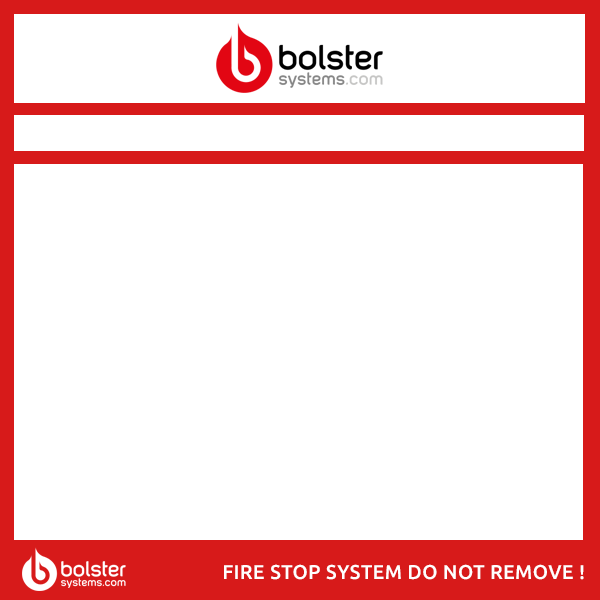
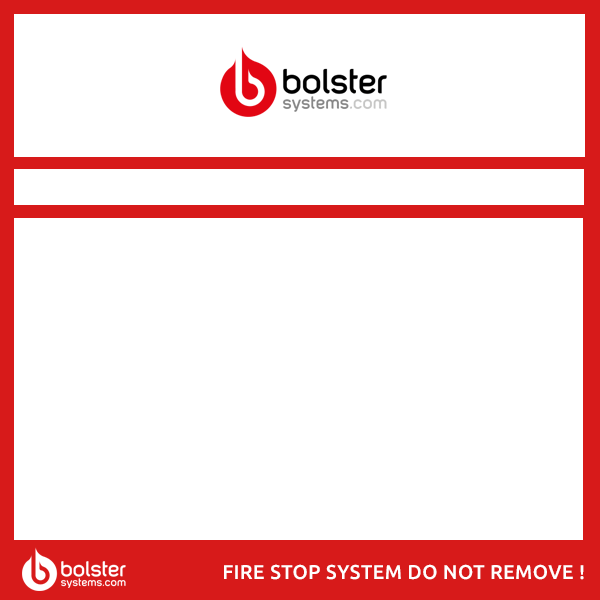
lots of label template changes

Changed region(s): [[0.03, 0.03, 0.99, 0.21], [0.03, 0.24, 0.99, 0.3], [0.0, 0.33, 0.99, 0.39]]

diff --git a/app-src/src/components/shared/generic/form/presentational/BolsterLabelFieldsExample.js b/app-src/src/components/shared/generic/form/presentational/BolsterLabelFieldsExample.js
@@ -6,36 +6,40 @@ import trimLabel from '_content/images/labels/trim.png';
 import BlockHeading from '../../blockHeading/presentational/BlockHeading';
[1 lines of base64/hex data omitted]
 
-const BolsterLabelFieldsExample = ({ fields }) => (
+const BolsterLabelFieldsExample = ({ fields, template }) => (
     <div className="size-lg-12 label-example template-builder-example">
         <BlockHeading title="Label example" />
-        <div className="label-example-container size-lg-12">
-            <div className="label-example size-lg-12">
-                <img alt="example label standard" src={standardLabel} />
-                {/* {fields} */}
-                <div className="field-holder">
-                    {fields.map(field => (
-                        <LabelFieldExampleItemContainer
-                            key={field.uuid}
-                            field={field}
-                        />
-                    ))}
+        {template.labelType == 1 && (
+            <div className="label-example-container size-lg-12">
+                <div className="label-example size-lg-12">
+                    <img alt="example label standard" src={standardLabel} />
+                    {/* {fields} */}
+                    <div className="field-holder">
+                        {fields.map(field => (
+                            <LabelFieldExampleItemContainer
+                                key={field.uuid}
+                                field={field}
+                            />
+                        ))}
+                    </div>
                 </div>
             </div>
-        </div>
-        <div className="label-example-container small size-lg-12">
-            <div className="label-example size-lg-12">
-                <img alt="example label small" src={trimLabel} />
-                <div className="field-holder">
-                    {fields.map(field => (
-                        <LabelFieldExampleItemContainer
-                            key={field.uuid}
-                            field={field}
-                        />
-                    ))}
-                </div>{' '}
+        )}
+        {template.labelType == 2 && (
+            <div className="label-example-container small size-lg-12">
+                <div className="label-example size-lg-12">
+                    <img alt="example label small" src={trimLabel} />
+                    <div className="field-holder">
+                        {fields.map(field => (
+                            <LabelFieldExampleItemContainer
+                                key={field.uuid}
+                                field={field}
+                            />
+                        ))}
+                    </div>{' '}
+                </div>
             </div>
-        </div>
+        )}
     </div>
 );
 

diff --git a/app-src/src/_content/scss/main.scss b/app-src/src/_content/scss/main.scss
@@ -138,11 +138,15 @@ button {
         display: flex;
         justify-content: space-around;
         align-items: flex-start;
+        max-width: 400px;
 
         .label-example {
             width: 180px;
             margin: 0 10px;
             overflow: hidden;
+            img {
+                width: 100%;
+            }
             .label-content-large {
                 position: absolute;
                 width: 100%;
@@ -173,9 +177,9 @@ button {
             .field-holder {
                 position: absolute;
                 width: 100%;
-                top: 19%;
+                top: 28%;
                 left: 0;
-                padding: 0 30px;
+                padding: 0 13px;
             }
             .label-content-field {
                 font-size: 120%;
@@ -192,14 +196,20 @@ button {
                 }
 
                 &:first-child {
-                    margin-bottom: 30px;
+                    margin-bottom: 15px;
                 }
 
                 &:nth-child(2) {
                     font-size: 240%;
-                    padding-left: 20px;
+                    padding-left: 25px;
+
                     p {
                         @include swiss721-medium;
+                        font-weight: bold;
+                        display: none;
+                        &:nth-child(2) {
+                            display: block;
+                        }
                     }
                 }
             }
@@ -213,15 +223,19 @@ button {
             }
             &.small {
                 .field-holder {
-                    top: 38%;
-                    padding: 0 20px;
+                    top: 37%;
+                    padding: 0 12px;
                 }
                 .label-content-field {
-                    font-size: 110%;
+                    font-size: 100%;
 
                     &:nth-child(2) {
-                        font-size: 110%;
+                        font-size: 100%;
                         padding-left: 0;
+                        p {
+                            @include swiss721-roman;
+                            font-weight: normal;
+                        }
                     }
                 }
             }

diff --git a/app-src/src/components/superAdmin/templateBuilder/templateBuilder/containers/LabelExamplePageContainer.js b/app-src/src/components/superAdmin/templateBuilder/templateBuilder/containers/LabelExamplePageContainer.js
@@ -10,7 +10,13 @@ import LabelExamplePage from '../presentational/LabelExamplePage';
 
 class LabelExamplePageContainer extends Component {
     render() {
-        return <LabelExamplePage />;
+        return (
+            <LabelExamplePage
+                templates={this.props.templates}
+                isFetching={this.props.isFetching}
+                error={this.props.error}
+            />
+        );
     }
     componentDidMount = () => {
         const { fetchPageData, uuid } = this.props;
@@ -22,7 +28,7 @@ class LabelExamplePageContainer extends Component {
 const mapStateToProps = (
     {
         superAdmin: {
-            templatesReducer: { templates },
+            templatesReducer: { templates, isFetching, error },
             templateLabelFieldsReducer: { labelFields }
         }
     },
@@ -34,10 +40,13 @@ const mapStateToProps = (
 ) => ({
     companyID,
     template: templates[uuid],
+    templates,
     uuid,
     labelFields: Object.values(labelFields).filter(
         ({ templateUUID }) => templateUUID === uuid
-    )
+    ),
+    isFetching,
+    error
 });
 const mapDispatchToProps = (
     dispatch,

diff --git a/app-src/src/components/superAdmin/templateBuilder/templateBuilder/presentational/LabelExamplePage.js b/app-src/src/components/superAdmin/templateBuilder/templateBuilder/presentational/LabelExamplePage.js
@@ -5,8 +5,9 @@ import TemplateLabelInfoContainer from '../containers/TemplateLabelInfoContainer
 import LabelExampleContainer from '../containers/LabelExampleContainer';
[2 lines of base64/hex data omitted]
+import { isEmpty } from 'helpers/generic';
 
-const LabelExamplePage = () => (
+const LabelExamplePage = ({ templates, isFetching, error }) => (
     <>
         <PageHeading title="Preview Label" leftChildren={true}>
             <BackButtonContainer />
@@ -15,7 +16,11 @@ const LabelExamplePage = () => (
             <TemplateLabelInfoContainer />
         </div>
         <div className="size-lg-6">
-            <BlockContainer>
+            <BlockContainer
+                isFetching={isFetching}
+                error={error}
+                isEmpty={isEmpty(templates)}
+            >
                 <LabelExampleContainer />
             </BlockContainer>
         </div>

diff --git a/app-src/src/components/superAdmin/templateBuilder/templateBuilder/presentational/LabelFieldItem.js b/app-src/src/components/superAdmin/templateBuilder/templateBuilder/presentational/LabelFieldItem.js
@@ -2,9 +2,9 @@ import React from 'react';
 
 const LabelFieldItem = ({ source, title, content }) => (
     <div className="label-field-item  size-lg-12">
-        <p className="size-lg-4">{source || '{ empty }'}</p>
-        <p className="size-lg-4">{title || '{ empty }'}</p>
-        <p className="size-lg-4">{content || '{ empty }'}</p>
+        <p className="size-lg-4">{source || 'Not Set'}</p>
+        <p className="size-lg-4">{title || 'Not Set'}</p>
+        <p className="size-lg-4">{content || 'Not Set'}</p>
     </div>
 );
 

diff --git a/app-src/src/components/superAdmin/templateBuilder/templateBuilder/containers/LabelExampleContainer.js b/app-src/src/components/superAdmin/templateBuilder/templateBuilder/containers/LabelExampleContainer.js
@@ -7,8 +7,13 @@ import BolsterLabelFieldsExample from 'components/shared/generic/form/presentati
 class LabelExampleContainer extends Component {
     render() {
         const { labelFields } = this.props;
-
-        return <BolsterLabelFieldsExample fields={labelFields} />;
+        const { template } = this.props;
+        return (
+            <BolsterLabelFieldsExample
+                fields={labelFields}
+                template={template}
+            />
+        );
     }
 }
 

diff --git a/app-src/src/constants/shared/templateBuilder.js b/app-src/src/constants/shared/templateBuilder.js
@@ -75,12 +75,13 @@ export const TRIM_LABEL_FIELDS = {
     6: 6,
     7: 7,
     8: 8,
-    9: 9
+    9: 9,
+    10: 10
 };
 
 export const LABEL_STATIC_FIELDS = {
-    1: 'Location Owner Company Name',
-    101: 'Operative Company Name',
+    1: 'Drawing Owner Company',
+    101: 'Operative Company',
     102: 'Operative First Name',
     103: 'Operative Last Name',
     104: 'Operative Full Name',

diff --git a/app-src/src/reducers/superAdmin/templates.js b/app-src/src/reducers/superAdmin/templates.js
@@ -115,7 +115,7 @@ function templatesReducer(state = {}, action) {
         case FETCH_COMPANY_TEMPLATES_SUCCESS:
             return {
                 ...state,
-                ...convertArrToObj(action.payload, 'id')
+                ...convertArrToObj(action.payload, 'uuid')
             };
         case FETCH_TEMPLATE_SUCCESS:
         case SET_TEMPLATE:

diff --git a/app-src/src/components/superAdmin/templateBuilder/templateBuilder/presentational/LabelFieldExampleItem.js b/app-src/src/components/superAdmin/templateBuilder/templateBuilder/presentational/LabelFieldExampleItem.js
@@ -2,8 +2,8 @@ import React from 'react';
 
 const LabelFieldExampleItem = ({ title, content }) => (
     <div className="label-content-field  size-lg-12">
-        <p>{`${title || '{ empty }'}:`}</p>
-        <p>{content || '{ empty }'}</p>
+        <p>{`${title || ' '}`}</p>
+        <p>{content || ' '}</p>
     </div>
 );
 
